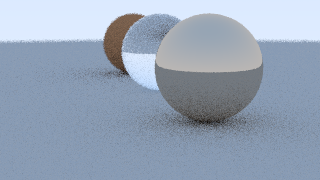
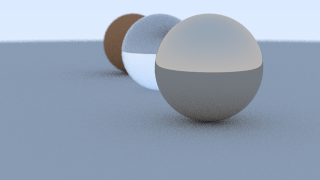
minor optimizations based on profiling

diff --git a/raytracer/camera.go b/raytracer/camera.go
@@ -93,9 +93,9 @@ func (cam *Camera) Render(world World) *image.RGBA {
 	return img
 }
 
-func (cam *Camera) GetRay(x int, y int) math3.Ray {
-	offset := math3.Vec3{rand.Float64() - 0.5, rand.Float64() - 0.5, 0}
-	pixelSample := cam.Pixel00Loc.Add(cam.PixelDeltaU.Scale(float64(x) + offset.X())).Add(cam.PixelDeltaV.Scale(float64(y) + offset.Y()))
+func (cam *Camera) GetRay(x, y int) math3.Ray {
+	offsetX, offsetY := rand.Float64()-0.5, rand.Float64()-0.5
+	pixelSample := cam.Pixel00Loc.Add(cam.PixelDeltaU.Scale(float64(x) + offsetX)).Add(cam.PixelDeltaV.Scale(float64(y) + offsetY))
 	rayOrigin := cam.DefocusDiskSample()
 	if cam.DefocusAngle <= 0 {
 		rayOrigin = cam.Center
@@ -113,14 +113,13 @@ func (cam *Camera) RayColor(r math3.Ray, depth float64, world World) math3.Vec3 
 	if depth <= 0 {
 		return math3.Vec3{0.0, 0.0, 0.0}
 	}
-	result, hasHit := world.Hit(r, Interval{Min: 0.001, Max: math.MaxFloat64})
-	if hasHit {
-		attenuation, scattered, ok := result.Material.Scatter(r, result)
-		if ok {
+	if result, hasHit := world.Hit(r, Interval{Min: 0.001, Max: math.MaxFloat64}); hasHit {
+		if attenuation, scattered, ok := result.Material.Scatter(r, result); ok {
 			return cam.RayColor(scattered, depth-1, world).Multiply(attenuation)
 		}
-		return attenuation
+		return math3.Vec3{}
 	}
-	a := 0.5 * (r.Direction.Normalize().Y() + 1.0)
+	d := r.Direction.Normalize()
+	a := 0.5 * (d.Y() + 1.0)
 	return math3.Vec3{1.0, 1.0, 1.0}.Scale(1.0 - a).Add(math3.Vec3{0.5, 0.7, 1.0}.Scale(a))
 }

diff --git a/cmd/main.go b/cmd/main.go
@@ -3,12 +3,21 @@ package main
 import (
 	"fmt"
 	"image/png"
+	"log"
 	"os"
 	"raytracer/math3"
 	"raytracer/raytracer"
+	"runtime/pprof"
 )
 
 func main() {
+	f, err := os.Create("cpu_profile.prof")
+	if err != nil {
+		log.Fatal(err)
+	}
+	pprof.StartCPUProfile(f)
+	defer pprof.StopCPUProfile()
+
 	world := raytracer.World{}
 
 	ground := raytracer.Lambertian{Albedo: math3.Vec3{0.5, 0.5, 0.5}}
@@ -25,7 +34,7 @@ func main() {
 	camera := raytracer.NewCamera(raytracer.CameraParams{
 		Width:           320,
 		AspectRatio:     16 / 9.0,
-		SamplesPerPixel: 10,
+		SamplesPerPixel: 100,
 		MaxDepth:        50,
 		VFov:            20,
 		LookFrom:        math3.Vec3{13, 2, 3},
@@ -44,4 +53,10 @@ func main() {
 	}
 
 	fmt.Println("Image saved as final-screenshot.png")
+	mf, err := os.Create("mem_profile.prof")
+	if err != nil {
+		log.Fatal(err)
+	}
+	pprof.WriteHeapProfile(mf)
+	mf.Close()
 }

diff --git a/raytracer/world.go b/raytracer/world.go
@@ -21,8 +21,7 @@ func (w *World) Hit(ray math3.Ray, rayT Interval) (HitRecord, bool) {
 	closestSoFar := rayT.Max
 	rec := HitRecord{}
 	for _, obj := range w.Objects {
-		localRec, hasHit := obj.Hit(ray, Interval{Min: rayT.Min, Max: closestSoFar})
-		if hasHit {
+		if localRec, hasHit := obj.Hit(ray, Interval{Min: rayT.Min, Max: closestSoFar}); hasHit {
 			hitAnything = true
 			closestSoFar = localRec.T
 			rec = localRec
